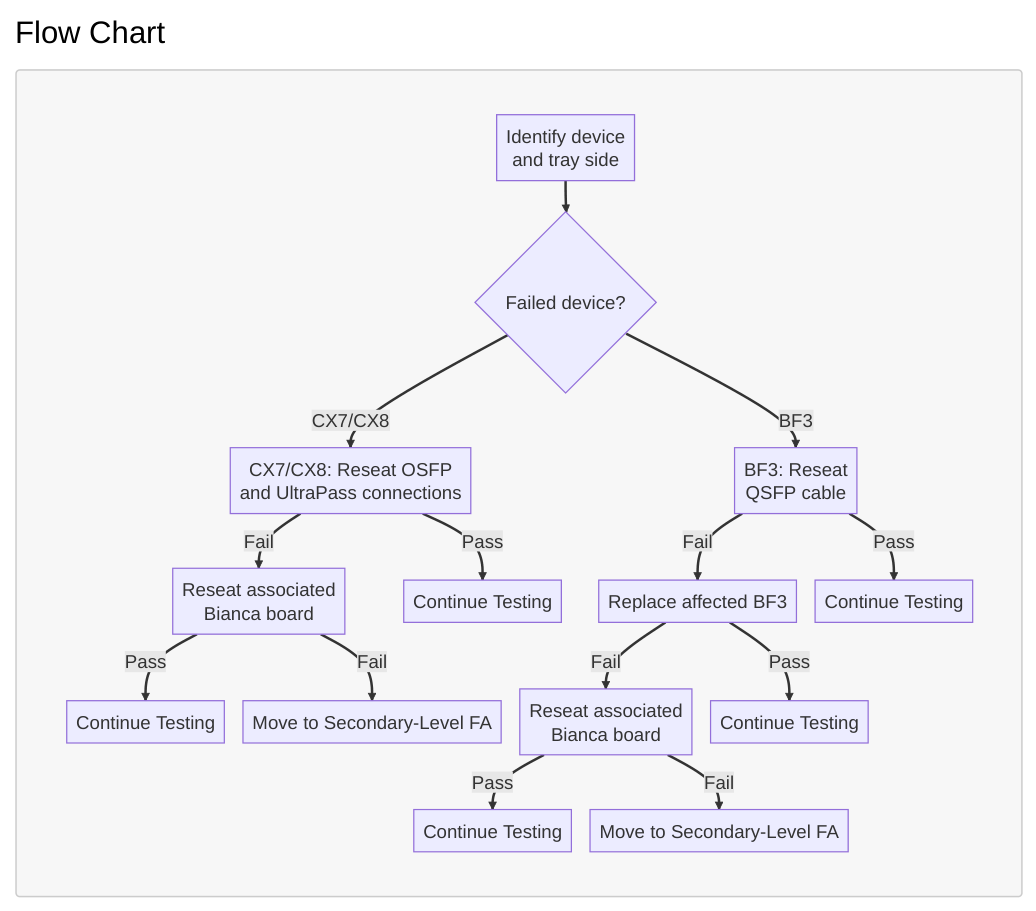
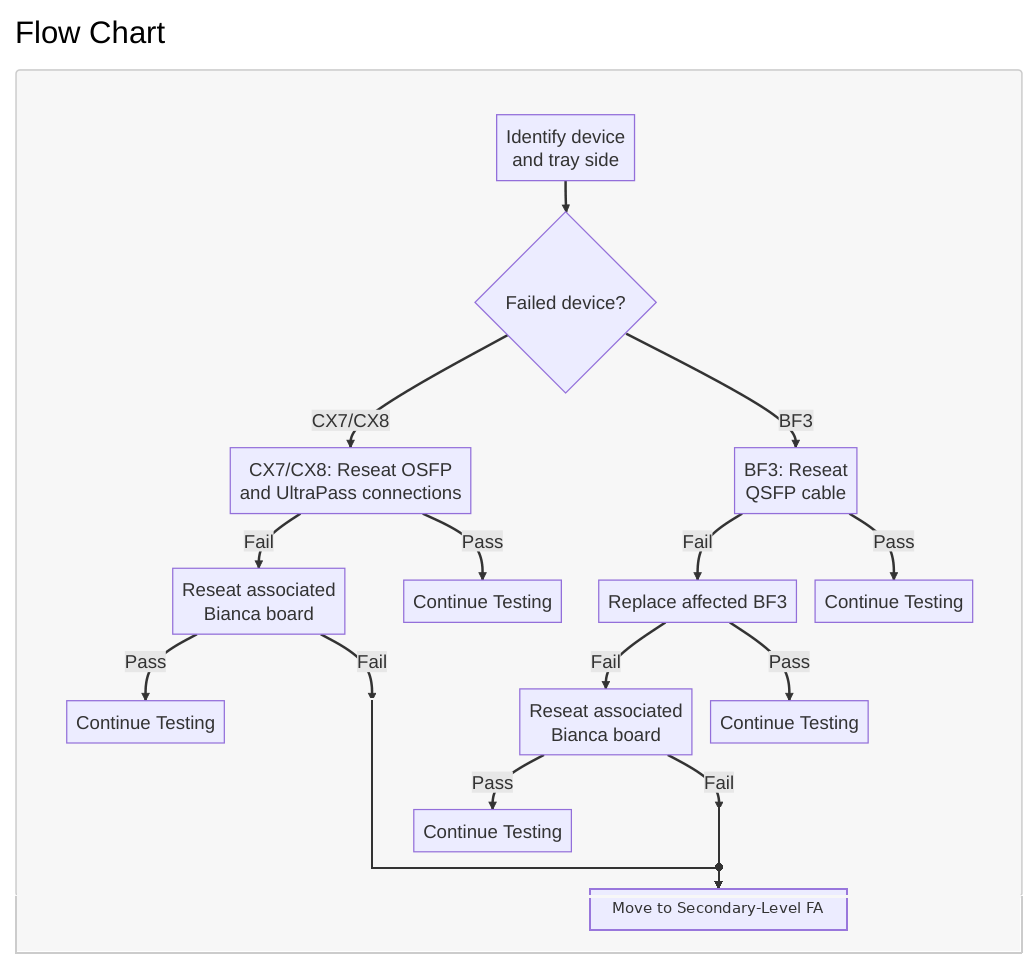
Unify duplicate MTF FA escalation node

diff --git a/mtf-pdf-additions.js b/mtf-pdf-additions.js
@@ -2414,7 +2414,7 @@ window.FFDG_MTF_PDF_ADDITIONS = [
     ],
     "flowchartImage": "./assets/mtf-flowcharts/mtf-flow-039.png",
     "flowchartImageWidth": 1036,
-    "flowchartImageHeight": 911,
+    "flowchartImageHeight": 966,
     "sourcePdfPage": 78,
     "referenceImages": [],
     "pdfNewCase": true
